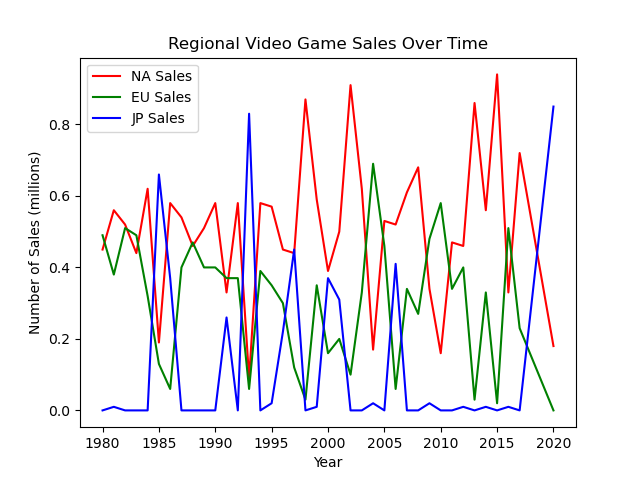
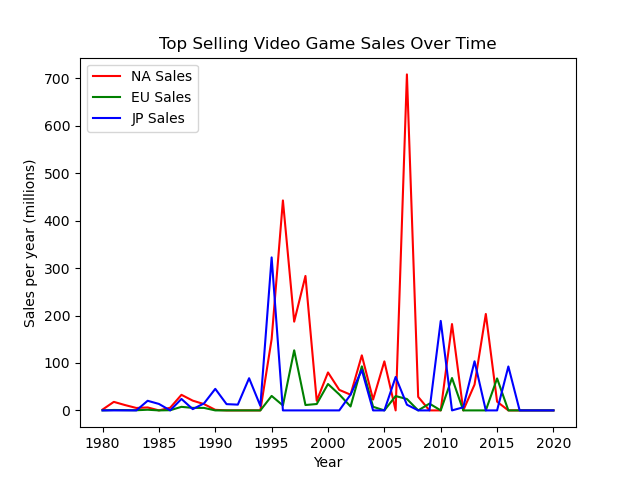
Add files via upload
Fixed line plot

diff --git a/global_sales_time.py b/global_sales_time.py
@@ -3,26 +3,35 @@ import matplotlib.pyplot as plt
 import pandas as pd, numpy as np
 import sys
 
-def main():
+def annual_sales(df, region):
+    annual_sale = {}
+    for i in df["Year"]:
+        if i not in annual_sale:
+            annual_sale[i] = 0
+        else:
+            annual_sale[i] += df.loc[df.Year == i, region].values[0]
+    return annual_sale
 
+def main():
+    region_sales = ['NA_Sales', 'EU_Sales', 'JP_Sales']
     ### This is a local path for my computer, change if vgsales.csv is located elsewhere
     data = pd.read_csv("C:\\Users\\LANBox\\Desktop\\ISTA_131\\vgsales.csv")
     ###
     df = pd.DataFrame(data)
-    df.sort_values(by=["Year"], inplace=True, ascending=False)
+    df.sort_values(by=["Year"], inplace=True, ascending=True)
 
-    result = pd.DataFrame(data = df['NA_Sales'], index = df["Year"])
-    plt.plot(result.index, result['NA_Sales'], color = 'r', label = "NA Sales")
+    na_sales = annual_sales(df, 'NA_Sales')
+    plt.plot(na_sales.keys(), na_sales.values(), color = 'r', label = "NA Sales")
 
-    result = pd.DataFrame(data = df['EU_Sales'], index = df["Year"])
-    plt.plot(result.index, result['EU_Sales'], color = 'g', label = "EU Sales")
+    eu_sales = annual_sales(df, 'EU_Sales')
+    plt.plot(eu_sales.keys(), eu_sales.values(), color = 'g', label = "EU Sales")
 
-    result = pd.DataFrame(data = df['JP_Sales'], index = df["Year"])
-    plt.plot(result.index, result['JP_Sales'], color = 'b', label = "JP Sales")
+    jp_sales = annual_sales(df, 'JP_Sales')
+    plt.plot(jp_sales.keys(), jp_sales.values(), color = 'b', label = "JP Sales")
 
-    plt.title("Regional Video Game Sales Over Time")
+    plt.title("Top Selling Video Game Sales Over Time")
     plt.xlabel("Year")
-    plt.ylabel("Sales per month (millions)")
+    plt.ylabel("Sales per year (millions)")
     plt.legend(loc = 'upper left')
 
     plt.show()
